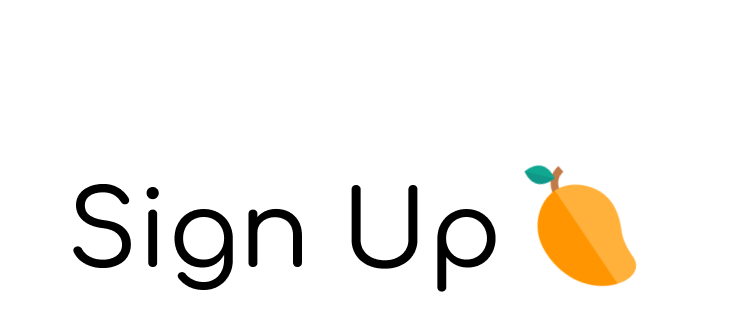
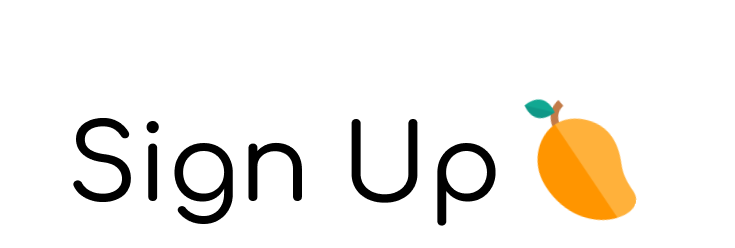
Visual Update SignUp View Spacing
- adjusted spacing around labels and buttons
- reuploaded title image to have altered padding
- moved background constant to signupviewmodel

diff --git a/src/interface_adapter/signup/SignupViewModel.java b/src/interface_adapter/signup/SignupViewModel.java
@@ -7,16 +7,15 @@ import java.beans.PropertyChangeListener;
 import java.beans.PropertyChangeSupport;
 
 public class SignupViewModel extends ViewModel {
-    public static final Color BACKGROUND_COLOR = Color.ORANGE;
-    public static final String CLEAR_BUTTON_LABEL = "Clear";
+    public static final Color BACKGROUND_COLOR = new Color(255, 200, 100);
     public static final String TITLE_LABEL = "Sign Up View";
-    public static final String USERNAME_LABEL = "Choose username";
-    public static final String PASSWORD_LABEL = "Choose password";
-    public static final String REPEAT_PASSWORD_LABEL = "Enter password again";
+    public static final String USERNAME_LABEL = "Choose username   ";
+    public static final String PASSWORD_LABEL = "Choose password   ";
+    public static final String REPEAT_PASSWORD_LABEL = "Enter password again   ";
 
-    public static final String SIGNUP_BUTTON_LABEL = "Sign up";
-    public static final String CANCEL_BUTTON_LABEL = "Cancel";
-    public static final String BACK_BUTTON_LABEL = "Back";
+    public static final String SIGNUP_BUTTON_LABEL = " Sign up ";
+    public static final String CANCEL_BUTTON_LABEL = " Cancel ";
+    public static final String BACK_BUTTON_LABEL = " Back ";
 
 
     private SignupState state = new SignupState();

diff --git a/src/view/SignupView.java b/src/view/SignupView.java
@@ -25,7 +25,7 @@ import java.io.IOException;
 
 public class SignupView extends JPanel implements ActionListener, PropertyChangeListener {
 
-    public final Color LIGHT_ORANGE = new Color(255, 200, 100);
+
 
     public final String viewName = "sign up";
 
@@ -45,6 +45,8 @@ public class SignupView extends JPanel implements ActionListener, PropertyChange
 
 
     public SignupView(SignupController controller, SignupViewModel signupViewModel, ViewManagerModel viewManagerModel) {
+
+        final Color LIGHT_ORANGE = signupViewModel.BACKGROUND_COLOR;
 
         Font medFont = signupViewModel.getComfortaaMedium();
         this.setPreferredSize(new Dimension(1200, 600)); // set window size
